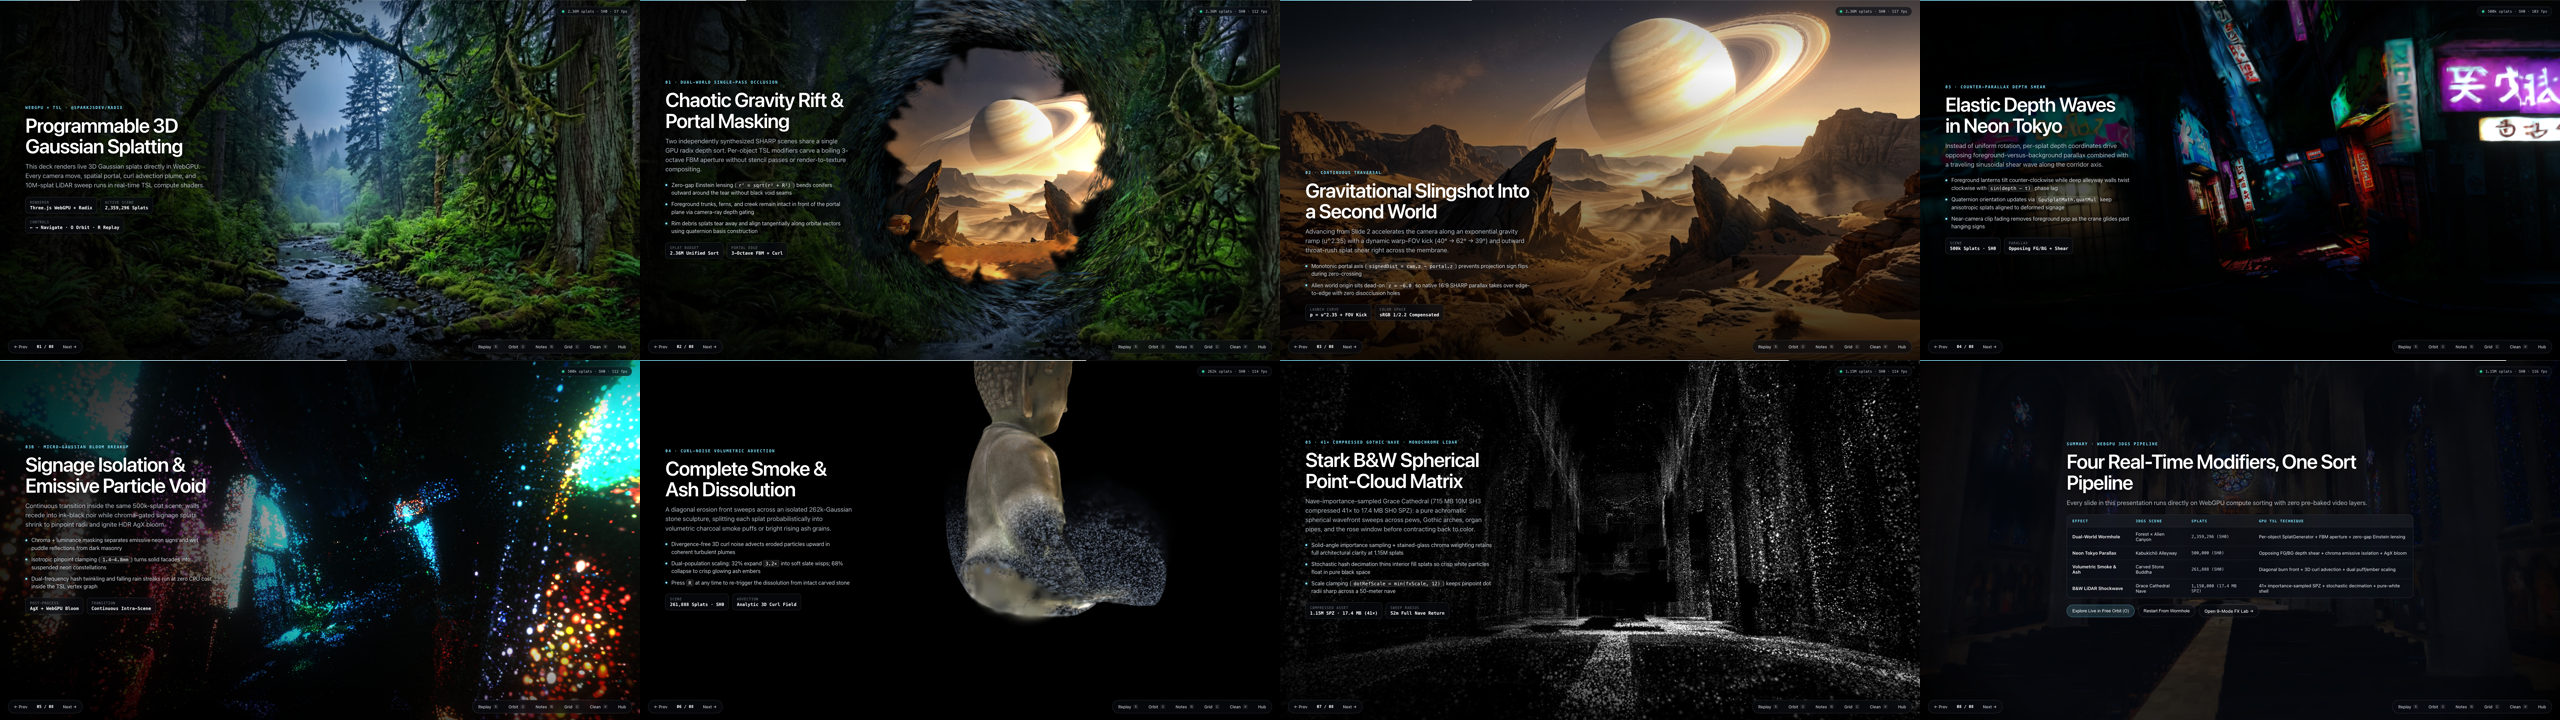
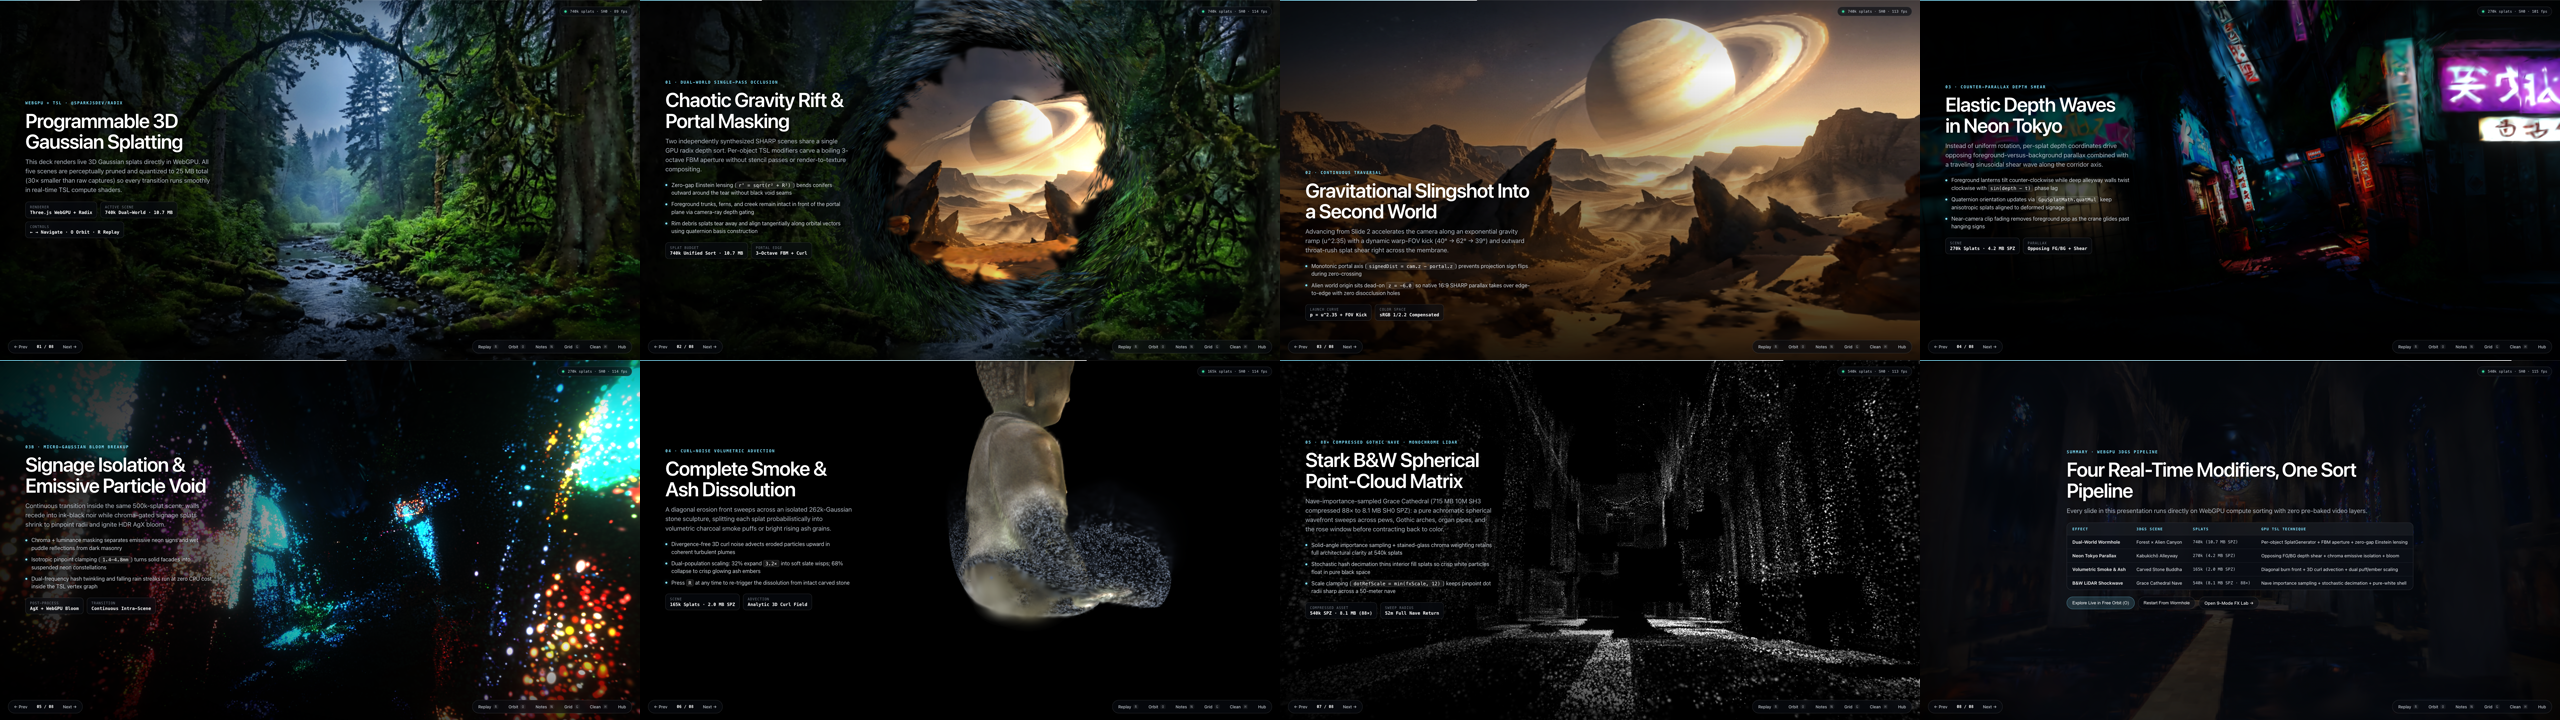
perf(playground): perceptually optimize all 5 deck splats (759MB -> 25MB, 30.4x smaller)

diff --git a/playground/splat-vfx/deck/slides.ts b/playground/splat-vfx/deck/slides.ts
@@ -78,9 +78,9 @@ export interface SlideSpec {
 export const DECK_SCENES: Record<DeckSceneId, SceneAssetSpec> = {
   dual_world: {
     id: "dual_world",
-    label: "Dual-World 16:9 3DGS (2.36M)",
-    url: "./assets/forest-clearing-wide.spz",
-    secondaryUrl: "./assets/alien-dimension-wide.spz",
+    label: "Dual-World 16:9 3DGS (740k · 10.7 MB)",
+    url: "./assets/forest-clearing-wide-opt.spz",
+    secondaryUrl: "./assets/alien-dimension-wide-opt.spz",
     placement: "dual_world",
     layout: "extSplats",
     sh: false,
@@ -93,8 +93,8 @@ export const DECK_SCENES: Record<DeckSceneId, SceneAssetSpec> = {
   },
   tokyo_alley: {
     id: "tokyo_alley",
-    label: "Tokyo Neon Alley (500k)",
-    url: "./assets/tokyo-alley.spz",
+    label: "Tokyo Neon Alley (270k · 4.2 MB)",
+    url: "./assets/tokyo-alley-opt.spz",
     placement: "catalog",
     layout: "extSplats",
     sh: false,
@@ -107,8 +107,8 @@ export const DECK_SCENES: Record<DeckSceneId, SceneAssetSpec> = {
   },
   buddha: {
     id: "buddha",
-    label: "Carved Stone Buddha (262k)",
-    url: "./assets/buddha.spz",
+    label: "Carved Stone Buddha (165k · 2.0 MB)",
+    url: "./assets/buddha-opt.spz",
     placement: "normalized",
     layout: "extSplats",
     sh: false,
@@ -121,8 +121,8 @@ export const DECK_SCENES: Record<DeckSceneId, SceneAssetSpec> = {
   },
   grace: {
     id: "grace",
-    label: "Grace Cathedral (1.15M SPZ · 17 MB)",
-    url: "./assets/grace-cathedral-lite.spz",
+    label: "Grace Cathedral (540k · 8.1 MB)",
+    url: "./assets/grace-cathedral-opt.spz",
     placement: "catalog",
     layout: "extSplats",
     sh: false,
@@ -143,10 +143,10 @@ export const SLIDES: SlideSpec[] = [
     kicker: "WEBGPU + TSL · @SPARKJSDEV/RADIX",
     title: "Programmable 3D Gaussian Splatting",
     lead:
-      "This deck renders live 3D Gaussian splats directly in WebGPU. Every camera move, spatial portal, curl advection plume, and 10M-splat LiDAR sweep runs in real-time TSL compute shaders.",
+      "This deck renders live 3D Gaussian splats directly in WebGPU. All five scenes are perceptually pruned and quantized to 25 MB total (30× smaller than raw captures) so every transition runs smoothly in real-time TSL compute shaders.",
     metrics: [
       { label: "Renderer", value: "Three.js WebGPU + Radix" },
-      { label: "Active Scene", value: "2,359,296 Splats" },
+      { label: "Active Scene", value: "740k Dual-World · 10.7 MB" },
       { label: "Controls", value: "← → Navigate · O Orbit · R Replay" },
     ],
     notes:
@@ -183,7 +183,7 @@ export const SLIDES: SlideSpec[] = [
       "Rim debris splats tear away and align tangentially along orbital vectors using quaternion basis construction",
     ],
     metrics: [
-      { label: "Splat Budget", value: "2.36M Unified Sort" },
+      { label: "Splat Budget", value: "740k Unified Sort · 10.7 MB" },
       { label: "Portal Edge", value: "3-Octave FBM + Curl" },
     ],
     notes:
@@ -265,7 +265,7 @@ export const SLIDES: SlideSpec[] = [
       "Near-camera clip fading removes foreground pop as the crane glides past hanging signs",
     ],
     metrics: [
-      { label: "Scene", value: "500k Splats · SH0" },
+      { label: "Scene", value: "270k Splats · 4.2 MB SPZ" },
       { label: "Parallax", value: "Opposing FG/BG + Shear" },
     ],
     notes:
@@ -343,7 +343,7 @@ export const SLIDES: SlideSpec[] = [
       "Press <code>R</code> at any time to re-trigger the dissolution from intact carved stone",
     ],
     metrics: [
-      { label: "Scene", value: "261,888 Splats · SH0" },
+      { label: "Scene", value: "165k Splats · 2.0 MB SPZ" },
       { label: "Advection", value: "Analytic 3D Curl Field" },
     ],
     notes:
@@ -372,17 +372,17 @@ export const SLIDES: SlideSpec[] = [
     id: "grace-lidar",
     scene: "grace",
     layout: "left",
-    kicker: "05 · 41× COMPRESSED GOTHIC NAVE · MONOCHROME LIDAR",
+    kicker: "05 · 88× COMPRESSED GOTHIC NAVE · MONOCHROME LIDAR",
     title: "Stark B&W Spherical Point-Cloud Matrix",
     lead:
-      "Nave-importance-sampled Grace Cathedral (715 MB 10M SH3 compressed 41× to 17.4 MB SH0 SPZ): a pure achromatic spherical wavefront sweeps across pews, Gothic arches, organ pipes, and the rose window before contracting back to color.",
+      "Nave-importance-sampled Grace Cathedral (715 MB 10M SH3 compressed 88× to 8.1 MB SH0 SPZ): a pure achromatic spherical wavefront sweeps across pews, Gothic arches, organ pipes, and the rose window before contracting back to color.",
     bullets: [
-      "Solid-angle importance sampling + stained-glass chroma weighting retains full architectural clarity at 1.15M splats",
+      "Solid-angle importance sampling + stained-glass chroma weighting retains full architectural clarity at 540k splats",
       "Stochastic hash decimation thins interior fill splats so crisp white particles float in pure black space",
       "Scale clamping (<code>dotRefScale = min(fxScale, 12)</code>) keeps pinpoint dot radii sharp across a 50-meter nave",
     ],
     metrics: [
-      { label: "Compressed Asset", value: "1.15M SPZ · 17.4 MB (41×)" },
+      { label: "Compressed Asset", value: "540k SPZ · 8.1 MB (88×)" },
       { label: "Sweep Radius", value: "52m Full Nave Return" },
     ],
     notes:
@@ -419,26 +419,26 @@ export const SLIDES: SlideSpec[] = [
       {
         effect: "Dual-World Wormhole",
         scene: "Forest × Alien Canyon",
-        splats: "2,359,296 (SH0)",
+        splats: "740k (10.7 MB SPZ)",
         technique: "Per-object SplatGenerator + FBM aperture + zero-gap Einstein lensing",
       },
       {
         effect: "Neon Tokyo Parallax",
         scene: "Kabukichō Alleyway",
-        splats: "500,000 (SH0)",
-        technique: "Opposing FG/BG depth shear + chroma emissive isolation + AgX bloom",
+        splats: "270k (4.2 MB SPZ)",
+        technique: "Opposing FG/BG depth shear + chroma emissive isolation + bloom",
       },
       {
         effect: "Volumetric Smoke & Ash",
         scene: "Carved Stone Buddha",
-        splats: "261,888 (SH0)",
+        splats: "165k (2.0 MB SPZ)",
         technique: "Diagonal burn front + 3D curl advection + dual puff/ember scaling",
       },
       {
         effect: "B&W LiDAR Shockwave",
         scene: "Grace Cathedral Nave",
-        splats: "1,150,000 (17.4 MB SPZ)",
-        technique: "41× importance-sampled SPZ + stochastic decimation + pure-white shell",
+        splats: "540k (8.1 MB SPZ · 88×)",
+        technique: "Nave importance sampling + stochastic decimation + pure-white shell",
       },
     ],
     notes:

diff --git a/playground/splat-vfx/deck/main.ts b/playground/splat-vfx/deck/main.ts
@@ -309,11 +309,15 @@ async function mountScene(sceneId: DeckSceneId): Promise<void> {
   }
 }
 
-// Background-prefetch remaining scenes (Tokyo 7MB + Buddha 3MB + compressed Grace Cathedral 17MB) after boot
-function prefetchLightScenes() {
-  void fetchSplatCached(DECK_SCENES.tokyo_alley.url, DECK_SCENES.tokyo_alley).catch(() => {});
-  void fetchSplatCached(DECK_SCENES.buddha.url, DECK_SCENES.buddha).catch(() => {});
-  void fetchSplatCached(DECK_SCENES.grace.url, DECK_SCENES.grace).catch(() => {});
+// Sequential background-prefetch so remaining scenes (4.2 + 2.0 + 8.1 MB) never compete with initial Slide 1 paint
+async function prefetchLightScenes() {
+  for (const id of ["tokyo_alley", "buddha", "grace"] as const) {
+    try {
+      await fetchSplatCached(DECK_SCENES[id].url, DECK_SCENES[id]);
+    } catch {
+      // Ignore speculative prefetch failures; mountScene will retry on demand
+    }
+  }
 }
 
 // ── Slide State & Continuous Transition Engine ─────────────────────────────

diff --git a/playground/splat-vfx/deck/shaders.ts b/playground/splat-vfx/deck/shaders.ts
@@ -204,7 +204,7 @@ export function createMainFxModifier(u: DeckUniforms): SplatModifier {
     scales.assign(
       mix(scales, vec3(lidarDotRad).mul(float(1.0).add(ringGlow.mul(0.32))), wShockEff.mul(insideOrShell).mul(0.988)),
     );
-    const keepThresh = mix(float(0.62), float(0.22), smoothstep(0.1, 0.58, lum));
+    const keepThresh = mix(float(0.45), float(0.14), smoothstep(0.1, 0.58, lum));
     const keepMask = smoothstep(keepThresh.sub(0.07), keepThresh.add(0.05), seed);
     const particleKeep = clamp(keepMask.add(ringGlow.mul(0.75)).add(scanContours.mul(0.75)), 0.0, 1.0);
     opacity.assign(opacity.mul(mix(float(1.0), mix(float(1.0), particleKeep, insideSphere), wShockEff)));
